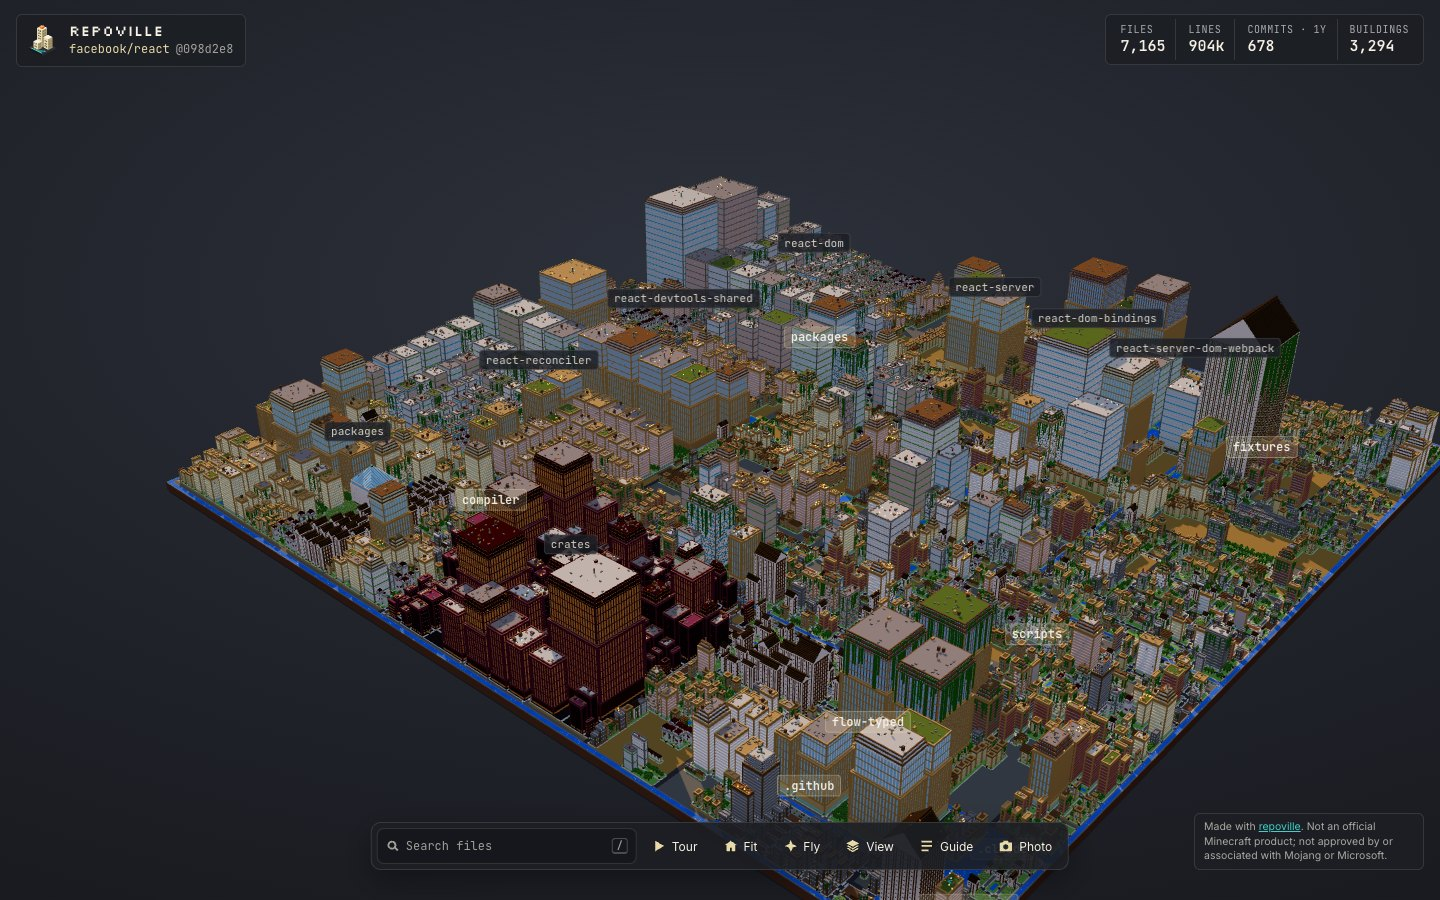
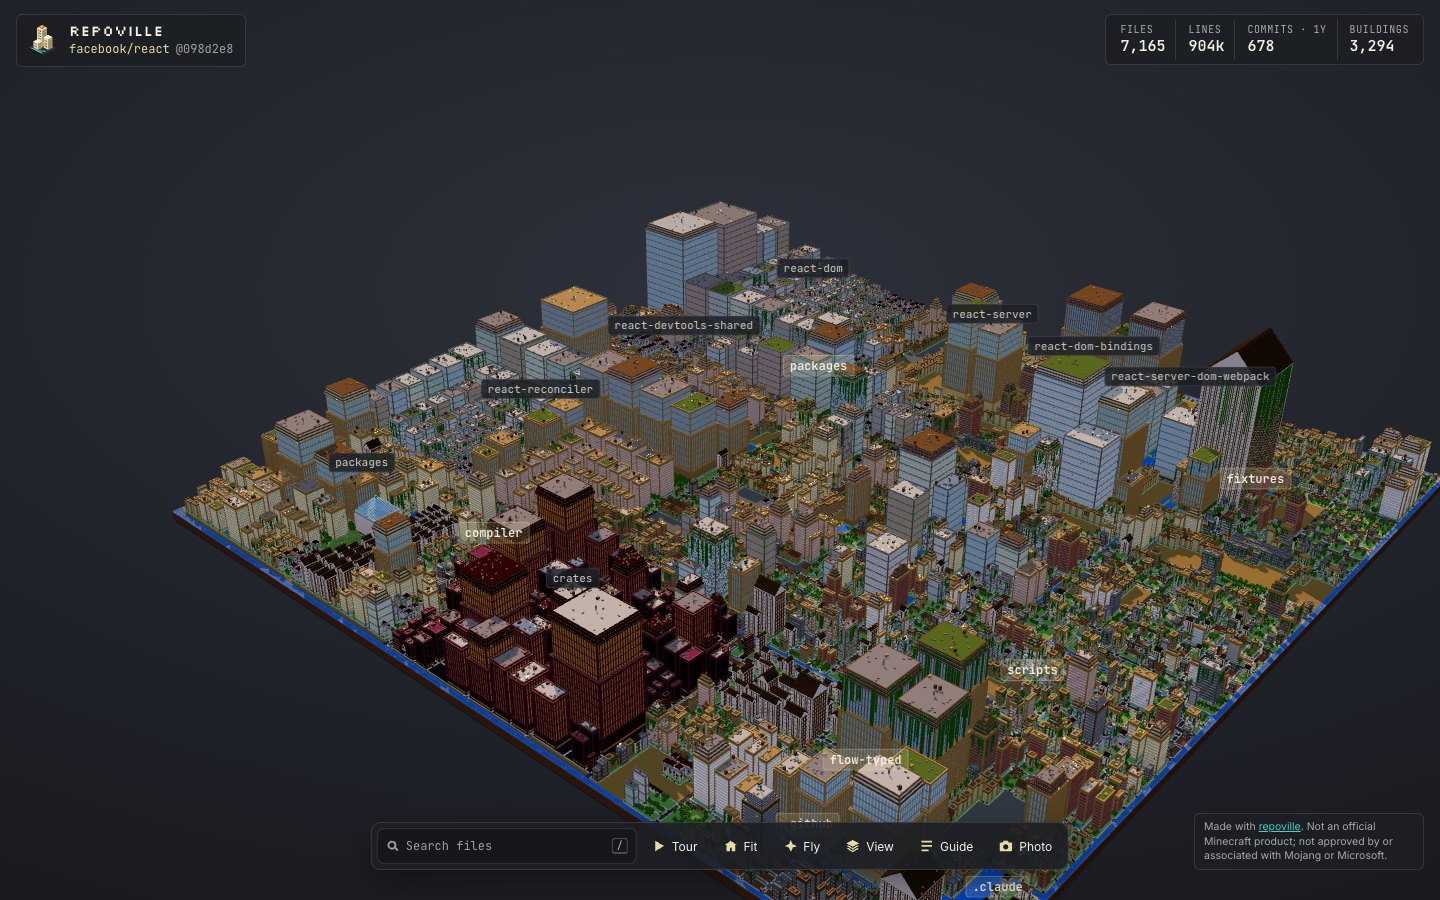
release: 0.10.0 (suburb greens, height-aware framing) (#90)

diff --git a/CHANGELOG.md b/CHANGELOG.md
@@ -1,5 +1,10 @@
 # Changelog
 
+## 0.10.0 — 2026-10-16
+
+- **Suburb greens:** the space around small houses is lawn with trees instead of the district's road surface (deep folders showed as wide dirt-path areas).
+- **Framing:** the home view includes building height, so a tall tower on a small map is no longer cut off at the top.
+
 ## 0.9.0 — 2026-10-16
 
 - **Terraces:** a folder made mostly of small files (townhouse class) is laid out as rows along lanes, back gardens meeting, files in path order, instead of scattered lots.
